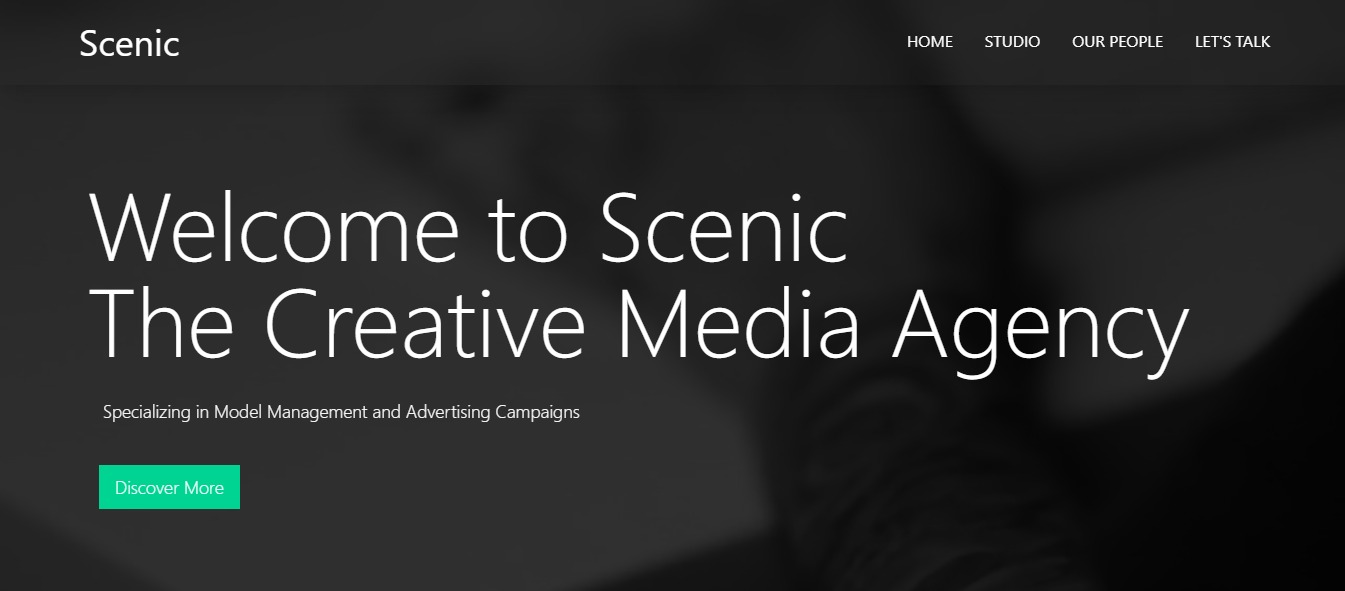
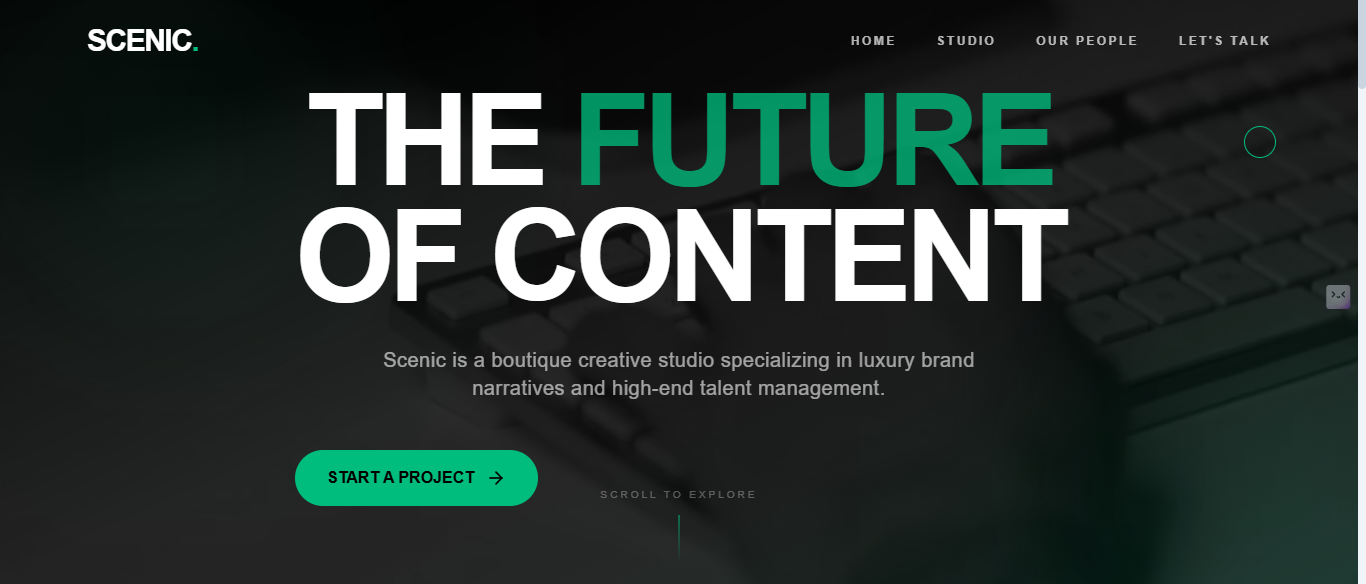
minor changes

diff --git a/src/components/Intro.jsx b/src/components/Intro.jsx
@@ -8,7 +8,7 @@ const highlights = [
 ];
 
 const stats = [
-  { label: "Projects shipped", value: "12+" },
+  { label: "Projects shipped", value: "7+" },
   { label: "Core stacks", value: "MERN" },
   { label: "Availability", value: "Open" },
 ];
